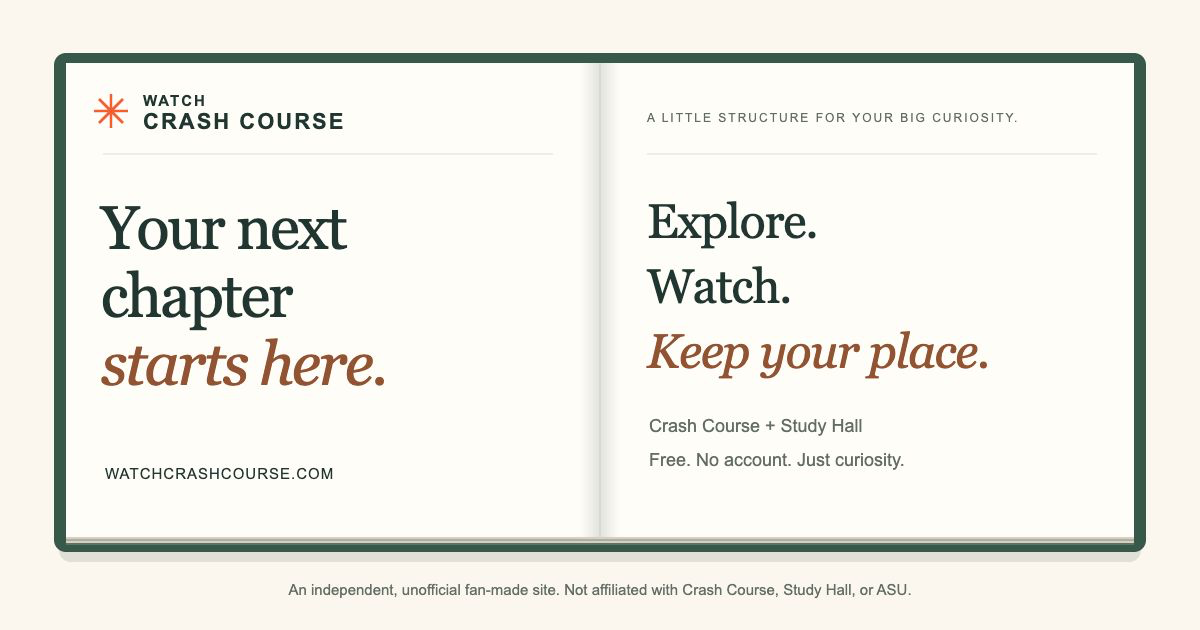
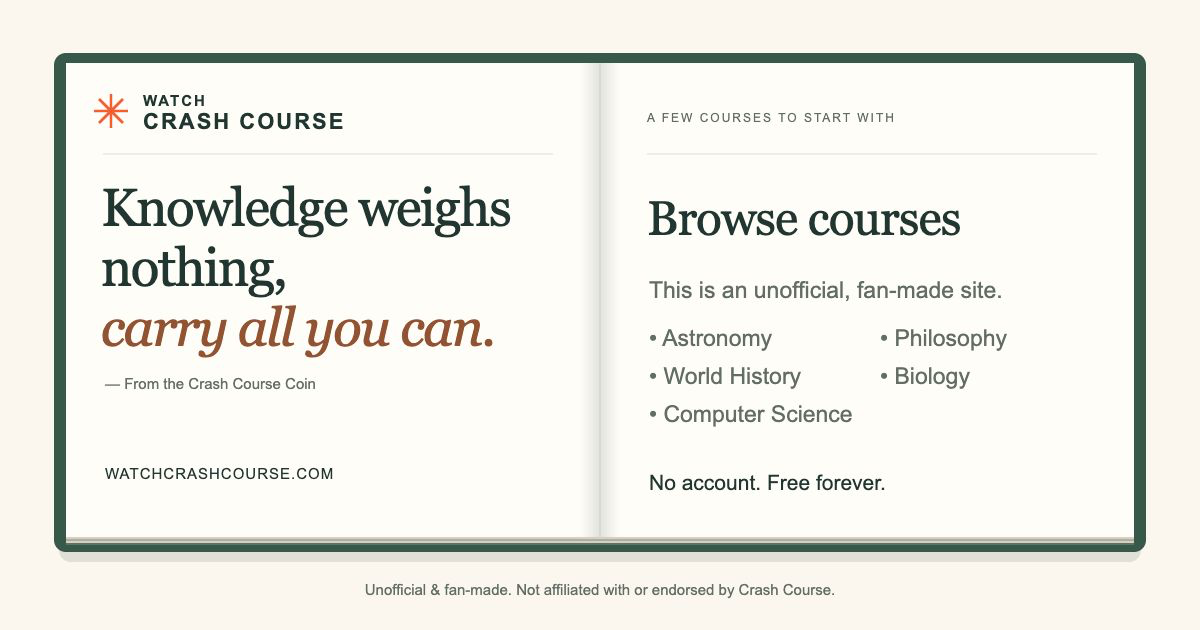
Use site wording and course list in sharing preview

diff --git a/src/site/presentation/sharing-metadata.ts b/src/site/presentation/sharing-metadata.ts
@@ -4,9 +4,9 @@ import { pageTitle } from "./page-title";
 
 export const siteOrigin = "https://www.watchcrashcourse.com";
 const siteName = "Watch Crash Course";
-const image = `${siteOrigin}/social/book-preview.png`;
+const image = `${siteOrigin}/social/book-preview.png?v=3`;
 const imageAlt =
-  "An open book: Watch Crash Course. Your next chapter starts here. Explore, watch, and keep your place. An unofficial, fan-made site.";
+  "An open book: Watch Crash Course. Knowledge weighs nothing, carry all you can. From the Crash Course Coin. Browse courses: Astronomy, Philosophy, World History, Biology, and Computer Science. No account. Free forever. Unofficial and fan-made.";
 
 interface Metadata {
   detail: string;

diff --git a/README.md b/README.md
@@ -37,7 +37,7 @@ pnpm dev
 
 The build generates a sitemap and static `_course-*.html` / `_watch-*.html` variants. `vercel.json` rewrites the existing public query URLs to these files; the generic templates are emitted as `_course.html` and `_watch.html` to avoid Vercel filesystem precedence. Keep these rules and the generator aligned. Other static hosts need equivalent query routing. `pnpm preview` mirrors it locally; unknown course/video pairs return 404 on Vercel.
 
-The sharing image is `public/social/book-preview.png` (1200 × 630), with an editable SVG beside it. Update the PNG when editing the SVG, and change the image filename in the generator when replacing an already shared image to avoid stale platform caches. Canonical URLs use `https://www.watchcrashcourse.com`, the production hostname. After deployment, verify raw HTML with a sharing crawler user agent, check the image response, and use platform inspection tools to refresh existing previews. Platform caches may delay changes.
+The sharing image is `public/social/book-preview.png` (1200 × 630), with an editable SVG beside it. Update the PNG when editing the SVG, and increment the image version query in the generator when replacing an already shared image to avoid stale platform caches. Canonical URLs use `https://www.watchcrashcourse.com`, the production hostname. After deployment, verify raw HTML with a sharing crawler user agent, check the image response, and use platform inspection tools to refresh existing previews. Platform caches may delay changes.
 
 ## Help make it better
 
